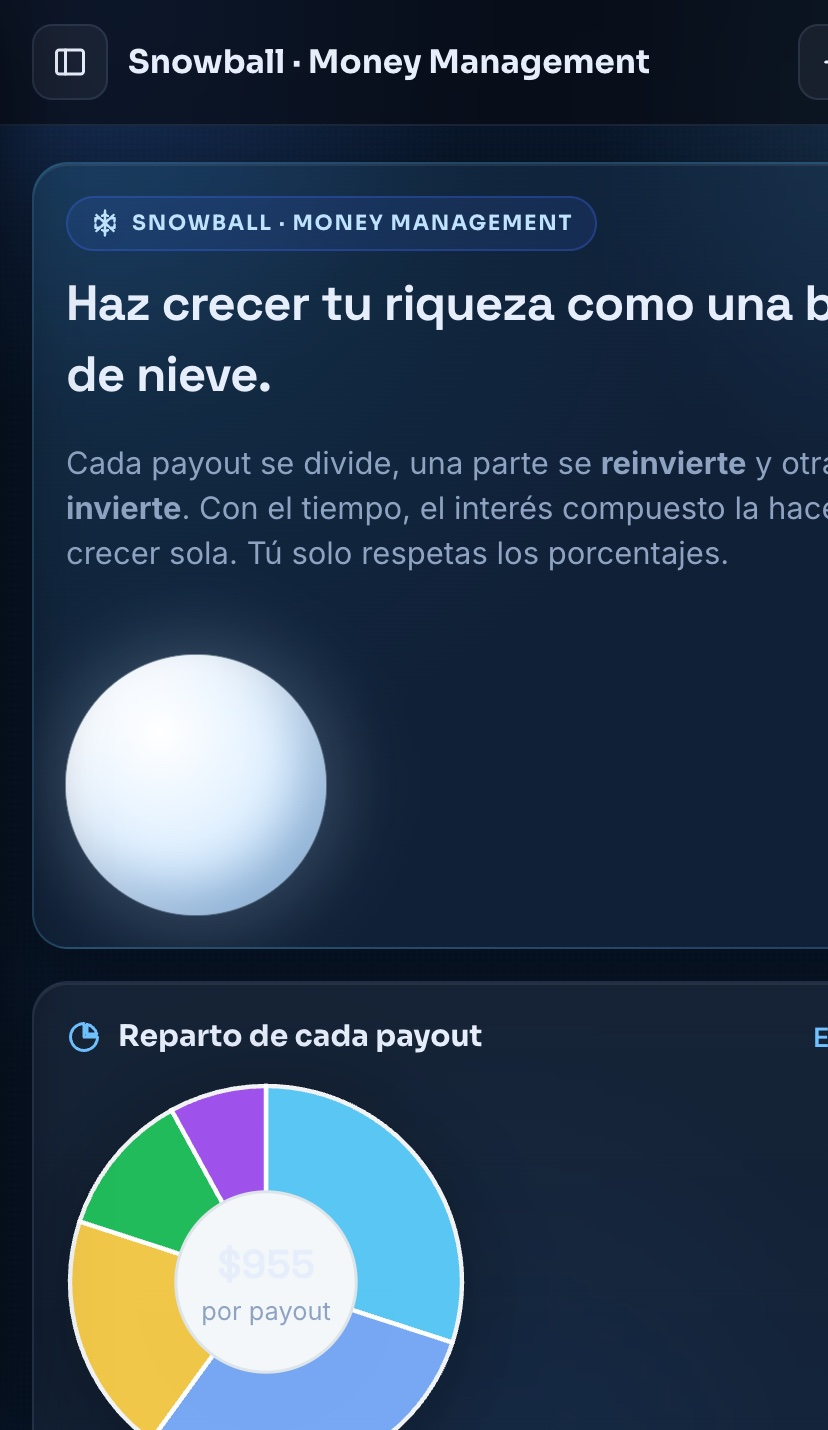
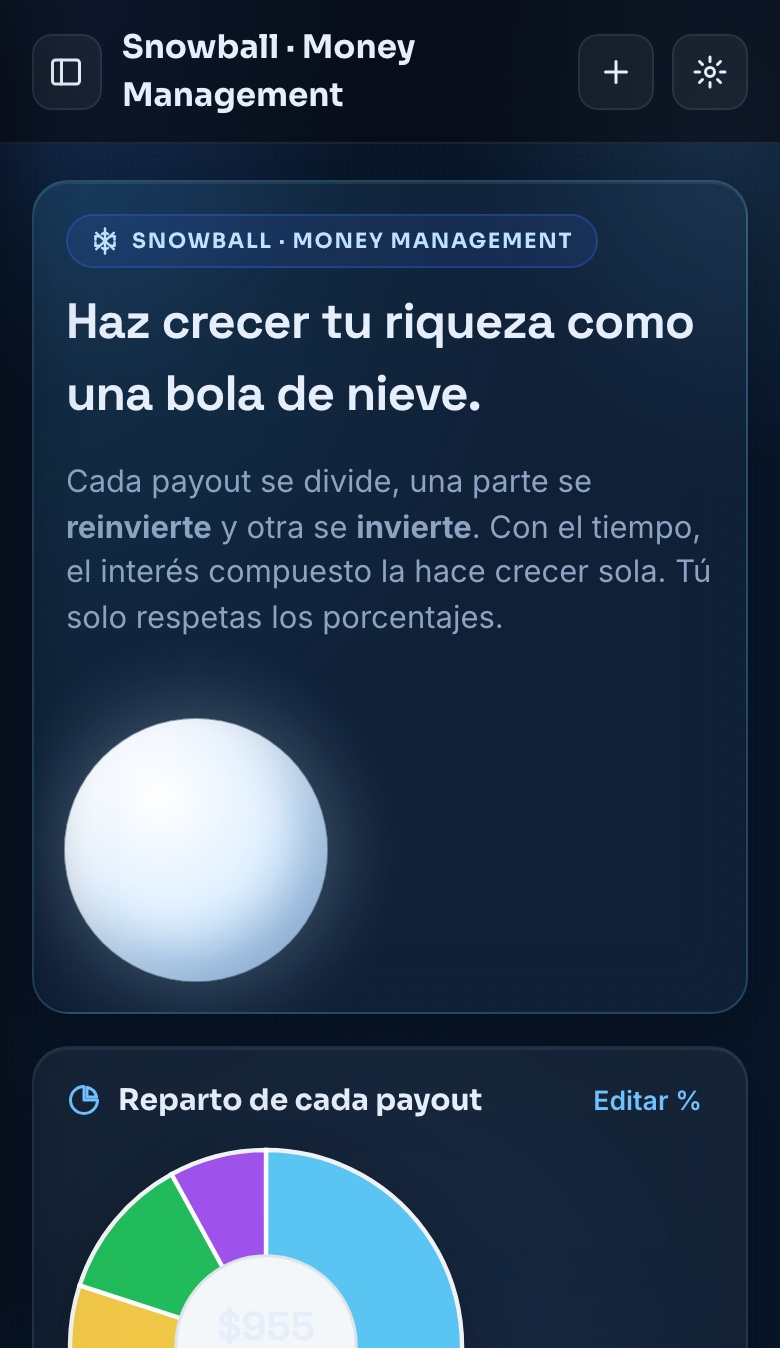
fix(landing): capturas REALES de la app en movil dentro de los iPhones (CDP 390px) + grid4/grid2 a 1 columna en telefono

diff --git a/js/views-coach.js b/js/views-coach.js
@@ -1,0 +1,191 @@
+/* ============ NorthPoint · Coach (memoria + análisis de tu operativa) ============
+   Lee TODOS tus trades (tu "memoria") y saca patrones accionables:
+   por hora, lado, día, setup y emoción. Genera reglas mecanizables
+   para el bot y mejora mes a mes conforme registras más operaciones. */
+window.Views = window.Views || {};
+(() => {
+  const V = window.Views;
+  const MIN = 8; // muestra mínima para análisis confiable
+
+  // ---- helpers de agrupación (usan Q.stats) ----
+  const closed = ts => ts.filter(t => t.result !== 'be');
+  function groupRows(arr, keyFn, labelFn) {
+    const m = {};
+    arr.forEach(t => { const k = keyFn(t); if (k === null || k === undefined || k === '') return; (m[k] = m[k] || []).push(t); });
+    return Object.keys(m).map(k => ({ key: k, label: labelFn(k, m[k]), ts: m[k], ...Q.stats(m[k]) }));
+  }
+  const hourOf = t => { const h = parseInt((t.time || '').slice(0, 2), 10); return isNaN(h) ? null : h; };
+  const WD = ['Domingo', 'Lunes', 'Martes', 'Miércoles', 'Jueves', 'Viernes', 'Sábado'];
+  const wdOf = t => { const [y, m, d] = (t.date || '').split('-').map(Number); if (!y) return null; return new Date(y, m - 1, d).getDay(); };
+  const emoLabel = id => (Data.EMOTIONS.find(e => e.id === id) || { label: id }).label;
+  const pfTxt = st => (st.profitFactor === Infinity ? '∞' : st.profitFactor);
+
+  function streaks(all) {
+    const seq = Q.tradesDesc().slice().reverse().filter(t => t.result !== 'be');
+    let cw = 0, cl = 0, mw = 0, ml = 0;
+    seq.forEach(t => {
+      if (t.result === 'win') { cw++; cl = 0; mw = Math.max(mw, cw); }
+      else { cl++; cw = 0; ml = Math.max(ml, cl); }
+    });
+    return { maxWin: mw, maxLoss: ml };
+  }
+
+  // ---- motor de insights (el "coach que aprende") ----
+  function insights(all) {
+    const out = [], cl = closed(all), st = Q.stats(all);
+
+    // 1) ¿hay ventaja?
+    if (st.expectancy > 0)
+      out.push({ tone: 'good', ic: 'trendUp', title: `Tienes ventaja real: +${UI.money(st.expectancy)} por trade`,
+        text: `En ${st.n} trades tu Profit Factor es ${pfTxt(st)} y tu win rate ${st.winRate}%. Esto es lo que el bot debe replicar exactamente.` });
+    else
+      out.push({ tone: 'bad', ic: 'trendDn', title: `Aún sin ventaja: ${UI.money(st.expectancy, true)} por trade`,
+        text: `Profit Factor ${pfTxt(st)} en ${st.n} trades. La meta es pasar de 1.0. Abajo te muestro dónde se está yendo el dinero.` });
+
+    // 2) lado (largo vs corto)
+    const sd = groupRows(cl, t => t.side, k => (k === 'long' ? 'Largos' : 'Cortos')).filter(r => r.n >= 4);
+    if (sd.length === 2) {
+      const [a, b] = sd.sort((x, y) => y.expectancy - x.expectancy);
+      if (a.expectancy > 0 && (a.expectancy - b.expectancy) > 12)
+        out.push({ tone: 'tip', ic: 'bolt', title: `Ganas más en ${a.label.toLowerCase()} que en ${b.label.toLowerCase()}`,
+          text: `${a.label}: ${a.winRate}% win, ${UI.money(a.expectancy, true)}/trade. ${b.label}: ${b.winRate}% win, ${UI.money(b.expectancy, true)}/trade.`,
+          rule: `El bot prioriza ${a.label.toLowerCase()} y filtra o baja tamaño en ${b.label.toLowerCase()}.` });
+    }
+
+    // 3) ventana horaria
+    const hr = groupRows(cl, hourOf, k => `${String(k).padStart(2, '0')}:00`).filter(r => r.n >= 3);
+    if (hr.length >= 2) {
+      const best = hr.slice().sort((x, y) => y.expectancy - x.expectancy)[0];
+      const worst = hr.slice().sort((x, y) => x.expectancy - y.expectancy)[0];
+      if (best.key !== worst.key && worst.expectancy < 0 && best.expectancy > 0)
+        out.push({ tone: 'tip', ic: 'clock', title: `Tu mejor hora es la de ${best.label}`,
+          text: `A las ${best.label} tu expectativa es ${UI.money(best.expectancy, true)}/trade. A las ${worst.label} es ${UI.money(worst.expectancy, true)} — ahí sueles perder.`,
+          rule: `El bot solo entra en tu ventana ganadora y se apaga en las horas donde históricamente pierdes.` });
+    }
+
+    // 4) emoción (FOMO / revancha)
+    const badEmo = cl.filter(t => t.emotion === 'fomo' || t.emotion === 'revancha');
+    if (badEmo.length >= 3) {
+      const s = Q.stats(badEmo);
+      if (s.net < 0)
+        out.push({ tone: 'bad', ic: 'flame', title: `FOMO y revancha te cuestan ${UI.money(Math.abs(s.net))}`,
+          text: `${badEmo.length} trades por impulso con ${s.winRate}% de aciertos. Esto es exactamente lo que un bot elimina sin esfuerzo.`,
+          rule: `Disciplina automática: tras tu límite de pérdidas, el bot bloquea más entradas (cero revancha).` });
+    }
+
+    // 5) día de la semana flojo
+    const wd = groupRows(cl, wdOf, k => WD[k]).filter(r => r.n >= 3);
+    if (wd.length >= 3) {
+      const worst = wd.slice().sort((x, y) => x.net - y.net)[0];
+      if (worst.net < 0)
+        out.push({ tone: 'tip', ic: 'cal', title: `Cuídate los ${worst.label.toLowerCase()}`,
+          text: `Los ${worst.label.toLowerCase()} acumulas ${UI.money(worst.net, true)} en ${worst.n} trades (${worst.winRate}% win).`,
+          rule: `Opcional: el bot no opera o baja tamaño los ${worst.label.toLowerCase()}.` });
+    }
+
+    // 6) mejor setup
+    const setups = Q.bySetup(cl).filter(r => r.n >= 3);
+    if (setups.length >= 2 && setups[0].net > 0) {
+      const bs = setups[0];
+      out.push({ tone: 'good', ic: 'candles', title: `Tu setup más rentable: ${Data.setupOf(bs.setup).label}`,
+        text: `${UI.money(bs.net, true)} en ${bs.n} trades, ${bs.winRate}% win, PF ${pfTxt(bs)}.`,
+        rule: `El bot prioriza ${Data.setupOf(bs.setup).label} y vigila su decaimiento mes a mes.` });
+    }
+
+    // 7) disciplina de rachas
+    const sk = streaks(all);
+    if (sk.maxLoss >= 3)
+      out.push({ tone: 'tip', ic: 'shield', title: `Tu peor racha fue de ${sk.maxLoss} pérdidas seguidas`,
+        text: `Ahí es donde se quema la cuenta. Tu regla "W = stop / si pierdes, remas" existe justo por esto.`,
+        rule: `El bot corta el día al llegar a tu máximo de pérdidas — sin una sola excepción.` });
+
+    return out;
+  }
+
+  // ---- render de un desglose con barras ----
+  function breakdown(title, ic, rws, sortBy) {
+    if (!rws.length) return '';
+    const list = rws.slice().sort(sortBy || ((a, b) => b.net - a.net));
+    const max = Math.max(...list.map(r => Math.abs(r.net)), 1);
+    const body = list.map(r => `<div class="setrow">
+        <div class="set-top"><span>${UI.esc(r.label)}</span><span class="${UI.pnlClass(r.net)} bold">${UI.money(r.net, true)}</span></div>
+        ${UI.bar(Math.abs(r.net), max, r.net >= 0 ? 'var(--up)' : 'var(--down)')}
+        <div class="muted small mt6">${r.n} trades · ${r.winRate}% win · exp ${UI.money(r.expectancy, true)}</div>
+      </div>`).join('');
+    return `<div class="card"><div class="card-head"><div class="ch-t">${UI.icon(ic, '', 18)} ${title}</div></div>${body}</div>`;
+  }
+
+  function kpi(label, value, sub, cls) {
+    return `<div class="card kpi"><div class="kpi-l">${label}</div><div class="kpi-v ${cls || ''}">${value}</div>${sub ? `<div class="kpi-s muted">${sub}</div>` : ''}</div>`;
+  }
+
+  // ---- VISTA COACH ----
+  V.coach = function () {
+    const all = Q.allTrades();
+    const st = Q.stats(all);
+
+    const hero = `<div class="card coach-hero glass">
+      <div class="coach-hero-l">
+        <div class="eyebrow">${UI.icon('cockpit', '', 15)} COACH · MEMORIA DE TU OPERATIVA</div>
+        <h1>El bot aprende de cada trade que registras.</h1>
+        <p class="muted">Esta es la memoria que analiza tu historial y convierte tu criterio en <b>reglas mecanizables</b>. Mientras más operas y registras, más afina — y más cerca queda de automatizarse.</p>
+      </div>
+      <div class="coach-hero-r"><div class="coach-orb"><span></span><span></span><span></span></div></div>
+    </div>`;
+
+    if (all.length < MIN) {
+      return `<div class="page">${hero}
+        <div class="card">${UI.empty('cockpit', `Necesito al menos ${MIN} trades para analizar tu operativa`,
+          `Llevas ${all.length}. Registra tus operaciones (o conéctalas desde Tradovate) y aquí aparecerá tu análisis con reglas para el bot.`)}
+          <div class="btn-row mt12" style="justify-content:center">
+            <button class="btn btn-primary" data-act="addTrade">${UI.icon('plus', '', 16)} Agregar trade</button>
+            <button class="btn btn-ghost" data-act="connectTradovate">${UI.icon('plug', '', 16)} Conectar Tradovate</button>
+          </div>
+        </div></div>`;
+    }
+
+    const kpis = `<div class="grid4">
+      ${kpi('Expectativa / trade', UI.money(st.expectancy, true), st.expectancy > 0 ? 'tienes ventaja' : 'aún en rojo', UI.pnlClass(st.expectancy))}
+      ${kpi('Profit Factor', pfTxt(st), st.profitFactor >= 1 ? 'rentable' : 'bajo 1.0', st.profitFactor >= 1 ? 'up' : 'down')}
+      ${kpi('Win Rate', st.winRate + '%', st.wins + 'W · ' + st.losses + 'L')}
+      ${kpi('Memoria', st.n + ' trades', 'analizados')}
+    </div>`;
+
+    const ins = insights(all);
+    const insCard = `<div class="card">
+      <div class="card-head"><div class="ch-t">${UI.icon('bolt', '', 18)} Lo que veo en tu operativa</div></div>
+      <div class="coach-insights">${ins.map(i => `<div class="insight">
+        <div class="ins-badge ${i.tone}">${UI.icon(i.ic, '', 18)}</div>
+        <div class="ins-body">
+          <div class="ins-title">${i.title}</div>
+          <div class="ins-text">${i.text}</div>
+          ${i.rule ? `<div class="ins-rule">${UI.icon('cockpit', '', 13)} Regla para el bot: ${i.rule}</div>` : ''}
+        </div>
+      </div>`).join('')}</div>
+    </div>`;
+
+    // reglas compiladas para automatizar
+    const reglas = ins.filter(i => i.rule);
+    const reglasCard = reglas.length ? `<div class="card coach-rules">
+      <div class="card-head"><div class="ch-t">${UI.icon('shield', '', 18)} Reglas para automatizar</div><span class="muted small">${reglas.length} regla${reglas.length !== 1 ? 's' : ''}</span></div>
+      <ol class="rule-list">${reglas.map(i => `<li>${UI.esc(i.rule)}</li>`).join('')}</ol>
+      <p class="muted small mt8">Estas son las reglas que sacamos de TU historial. Conforme registres más trades, se ajustan y validamos cada mes antes de meterlas al bot.</p>
+    </div>` : '';
+
+    const cl = closed(all);
+    const desgloses = `<div class="grid2-wide">
+      ${breakdown('Por hora del día', 'clock', groupRows(cl, hourOf, k => `${String(k).padStart(2, '0')}:00`), (a, b) => Number(a.key) - Number(b.key))}
+      ${breakdown('Por lado', 'share', groupRows(cl, t => t.side, k => (k === 'long' ? 'Largos' : 'Cortos')))}
+      ${breakdown('Por día de la semana', 'cal', groupRows(cl, wdOf, k => WD[k]), (a, b) => Number(a.key) - Number(b.key))}
+      ${breakdown('Por setup', 'candles', Q.bySetup(cl).map(r => ({ ...r, label: Data.setupOf(r.setup).label })))}
+      ${breakdown('Por emoción', 'flame', groupRows(cl, t => t.emotion || 'neutral', k => emoLabel(k)))}
+    </div>`;
+
+    const foot = `<div class="card coach-foot">
+      <p class="muted small">⚠️ El bot no será "más listo" que tú — será <b>más disciplinado</b>: ejecuta tus reglas sin emoción, sin revancha, con el mismo riesgo siempre. Ese es el edge real. Y todo esto mejora solo conforme alimentes tu memoria con cada trade.</p>
+      <div class="btn-row"><button class="btn btn-primary" data-act="addTrade">${UI.icon('plus', '', 16)} Registrar trade</button><button class="btn btn-ghost" data-act="exportCSV">${UI.icon('download', '', 16)} Exportar para el bot</button></div>
+    </div>`;
+
+    return `<div class="page">${hero}${kpis}${insCard}${reglasCard}${desgloses}${foot}</div>`;
+  };
+})();

diff --git a/css/styles.css b/css/styles.css
@@ -439,6 +439,7 @@ body.landing { background: var(--bg); }
   .lp-link { display: none; }
 }
 @media (max-width: 560px) { .grid4 { grid-template-columns: 1fr 1fr; } .bk-v { font-size: 1.9rem; } }
+@media (max-width: 480px) { .grid4, .grid2 { grid-template-columns: 1fr; } }
 
 /* ============================================================
    IGLOO OVERHAUL · vidrio esmerilado + glows hielo (estilo igloo.inc)
@@ -1322,4 +1323,37 @@ html[data-theme="dark"] .lp .lp-card, html[data-theme="dark"] .lp .lp-mod, html[
 .gpo-sub { font-size: .8rem; color: var(--muted); line-height: 1.4; }
 .cartera-need { display: flex; align-items: flex-start; gap: 8px; margin-top: 12px; background: rgba(95,208,255,.08); border: 1px solid rgba(95,208,255,.25); border-radius: 12px; padding: 12px 14px; font-size: .88rem; line-height: 1.5; }
 .cartera-need .ic { color: var(--cyan); flex: none; margin-top: 2px; }
+
+/* ============ Coach · análisis de la operativa ============ */
+.coach-hero { display: flex; align-items: center; gap: 20px; overflow: hidden; }
+.coach-hero-l { flex: 1; min-width: 0; }
+.coach-hero h1 { font-family: var(--display); font-weight: 800; font-size: 1.5rem; line-height: 1.18; margin: 8px 0 8px; letter-spacing: -.01em; }
+.coach-hero p { font-size: .9rem; line-height: 1.55; max-width: 62ch; }
+.coach-hero-r { flex: none; }
+.coach-orb { position: relative; width: 96px; height: 96px; display: grid; place-items: center; }
+.coach-orb span { position: absolute; inset: 0; margin: auto; border-radius: 50%; border: 1.5px solid rgba(95,208,255,.35); animation: coachPulse 3.4s ease-in-out infinite; }
+.coach-orb span:nth-child(1) { width: 96px; height: 96px; }
+.coach-orb span:nth-child(2) { width: 62px; height: 62px; animation-delay: .5s; border-color: rgba(127,176,255,.5); }
+.coach-orb span:nth-child(3) { width: 26px; height: 26px; background: radial-gradient(circle, var(--cyan), transparent 70%); border: 0; animation-delay: 1s; }
+@keyframes coachPulse { 0%,100% { transform: scale(1); opacity: .55; } 50% { transform: scale(1.08); opacity: 1; } }
+
+.coach-insights { display: flex; flex-direction: column; }
+.insight { display: flex; gap: 14px; padding: 15px 0; border-top: 1px solid var(--line); }
+.insight:first-child { border-top: 0; padding-top: 4px; }
+.ins-badge { flex: none; width: 38px; height: 38px; border-radius: 11px; display: grid; place-items: center; }
+.ins-badge.good { background: rgba(34,197,94,.14); color: var(--up); }
+.ins-badge.bad { background: rgba(239,68,68,.14); color: var(--down); }
+.ins-badge.tip { background: rgba(95,208,255,.14); color: var(--cyan); }
+.ins-body { flex: 1; min-width: 0; }
+.ins-title { font-weight: 700; font-size: .95rem; margin-bottom: 3px; }
+.ins-text { color: var(--muted); font-size: .84rem; line-height: 1.5; }
+.ins-rule { display: inline-flex; align-items: center; gap: 7px; margin-top: 9px; font-size: .78rem; font-weight: 600; color: var(--cyan); background: rgba(95,208,255,.1); border: 1px solid rgba(95,208,255,.25); padding: 6px 11px; border-radius: 9px; line-height: 1.35; }
+.ins-rule .ic { flex: none; }
+
+.coach-rules .rule-list { margin: 4px 0 0; padding-left: 0; list-style: none; counter-reset: r; }
+.coach-rules .rule-list li { counter-increment: r; position: relative; padding: 11px 0 11px 38px; border-top: 1px solid var(--line); font-size: .9rem; line-height: 1.5; }
+.coach-rules .rule-list li:first-child { border-top: 0; }
+.coach-rules .rule-list li::before { content: counter(r); position: absolute; left: 0; top: 10px; width: 24px; height: 24px; border-radius: 7px; background: rgba(95,208,255,.12); color: var(--cyan); font-weight: 700; font-size: .78rem; display: grid; place-items: center; }
+.coach-foot { display: flex; flex-direction: column; gap: 12px; }
+.coach-foot .btn-row { flex-wrap: wrap; }
 @media (max-width: 640px) { .gp-out { grid-template-columns: 1fr; } }

diff --git a/index.html b/index.html
@@ -17,7 +17,7 @@
   <link rel="preconnect" href="https://fonts.googleapis.com" />
   <link rel="preconnect" href="https://fonts.gstatic.com" crossorigin />
   <link href="https://fonts.googleapis.com/css2?family=Space+Grotesk:wght@400;500;600;700&family=Sora:wght@400;500;600;700;800&family=Inter:wght@400;500;600;700;800&display=swap" rel="stylesheet" />
-  <link rel="stylesheet" href="css/styles.css?v=37" />
+  <link rel="stylesheet" href="css/styles.css?v=38" />
 </head>
 <body>
   <div class="app-bg" aria-hidden="true">
@@ -30,18 +30,19 @@
   <div id="toast" class="toast" aria-live="polite"></div>
   <div id="sheet-root"></div>
 
-  <script src="js/store.js?v=37"></script>
-  <script src="js/data.js?v=37"></script>
-  <script src="js/ui.js?v=37"></script>
-  <script src="js/media.js?v=37"></script>
-  <script src="js/q.js?v=37"></script>
-  <script src="js/forms.js?v=37"></script>
-  <script src="js/views-landing.js?v=37"></script>
-  <script src="js/views-academia.js?v=37"></script>
-  <script src="js/views-dash.js?v=37"></script>
-  <script src="js/views-inicio.js?v=37"></script>
-  <script src="js/views-snowball.js?v=37"></script>
-  <script src="js/views-plan.js?v=37"></script>
-  <script src="js/app.js?v=37"></script>
+  <script src="js/store.js?v=38"></script>
+  <script src="js/data.js?v=38"></script>
+  <script src="js/ui.js?v=38"></script>
+  <script src="js/media.js?v=38"></script>
+  <script src="js/q.js?v=38"></script>
+  <script src="js/forms.js?v=38"></script>
+  <script src="js/views-landing.js?v=38"></script>
+  <script src="js/views-academia.js?v=38"></script>
+  <script src="js/views-dash.js?v=38"></script>
+  <script src="js/views-coach.js?v=38"></script>
+  <script src="js/views-inicio.js?v=38"></script>
+  <script src="js/views-snowball.js?v=38"></script>
+  <script src="js/views-plan.js?v=38"></script>
+  <script src="js/app.js?v=38"></script>
 </body>
 </html>

diff --git a/js/app.js b/js/app.js
@@ -14,6 +14,7 @@ const App = (() => {
     { group: 'JOURNAL' },
     { r: 'dashboard', ic: 'grid', label: 'Dashboard' },
     { r: 'trades', ic: 'candles', label: 'Trades' },
+    { r: 'coach', ic: 'cockpit', label: 'Coach IA' },
     { r: 'calendario', ic: 'cal', label: 'Calendario' },
     { r: 'cuentas', ic: 'building', label: 'Cuentas' },
     { group: 'TÚ' },
@@ -21,7 +22,7 @@ const App = (() => {
     { r: 'cartera', ic: 'wallet', label: 'Cartera' },
     { r: 'plan', ic: 'shield', label: 'Plan' },
   ];
-  const TITLES = { inicio: 'Inicio', academia: 'Academia', lesson: 'Academia', dashboard: 'Journal · Dashboard', trades: 'Trades', calendario: 'Calendario', cuentas: 'Cuentas', snowball: 'Snowball · Money Management', cartera: 'Cartera', plan: 'Plan & Disciplina' };
+  const TITLES = { inicio: 'Inicio', academia: 'Academia', lesson: 'Academia', dashboard: 'Journal · Dashboard', trades: 'Trades', coach: 'Coach · Análisis de tu operativa', calendario: 'Calendario', cuentas: 'Cuentas', snowball: 'Snowball · Money Management', cartera: 'Cartera', plan: 'Plan & Disciplina' };
 
   function sidebar() {
     const name = db.meta.name || 'Trader';